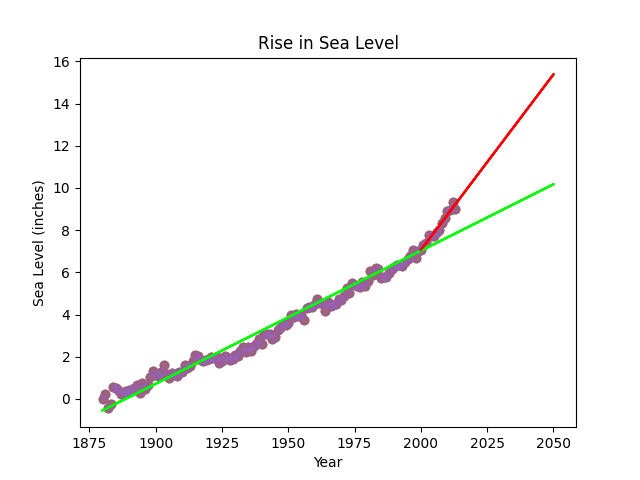
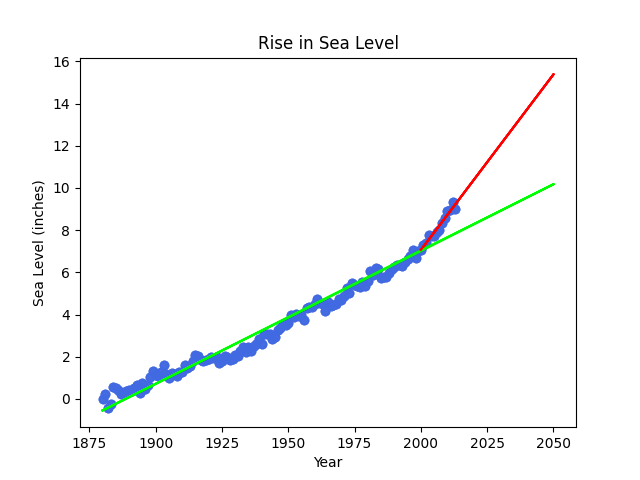
feat: change scatter plot color

Changed region(s): [[0.1562, 0.4062, 0.7188, 0.875]]

diff --git a/sea_level_predictor.py b/sea_level_predictor.py
@@ -7,7 +7,7 @@ def draw_plot():
     df = pd.read_csv('epa-sea-level.csv')
 
     # Create scatter plot
-    plt.scatter(df['Year'], df['CSIRO Adjusted Sea Level'], alpha=0.5)
+    plt.scatter(df['Year'], df['CSIRO Adjusted Sea Level'], color='royalblue', alpha=0.5)
 
     # Create first line of best fit
     res_best_fit = linregress(df['Year'], df['CSIRO Adjusted Sea Level'])
